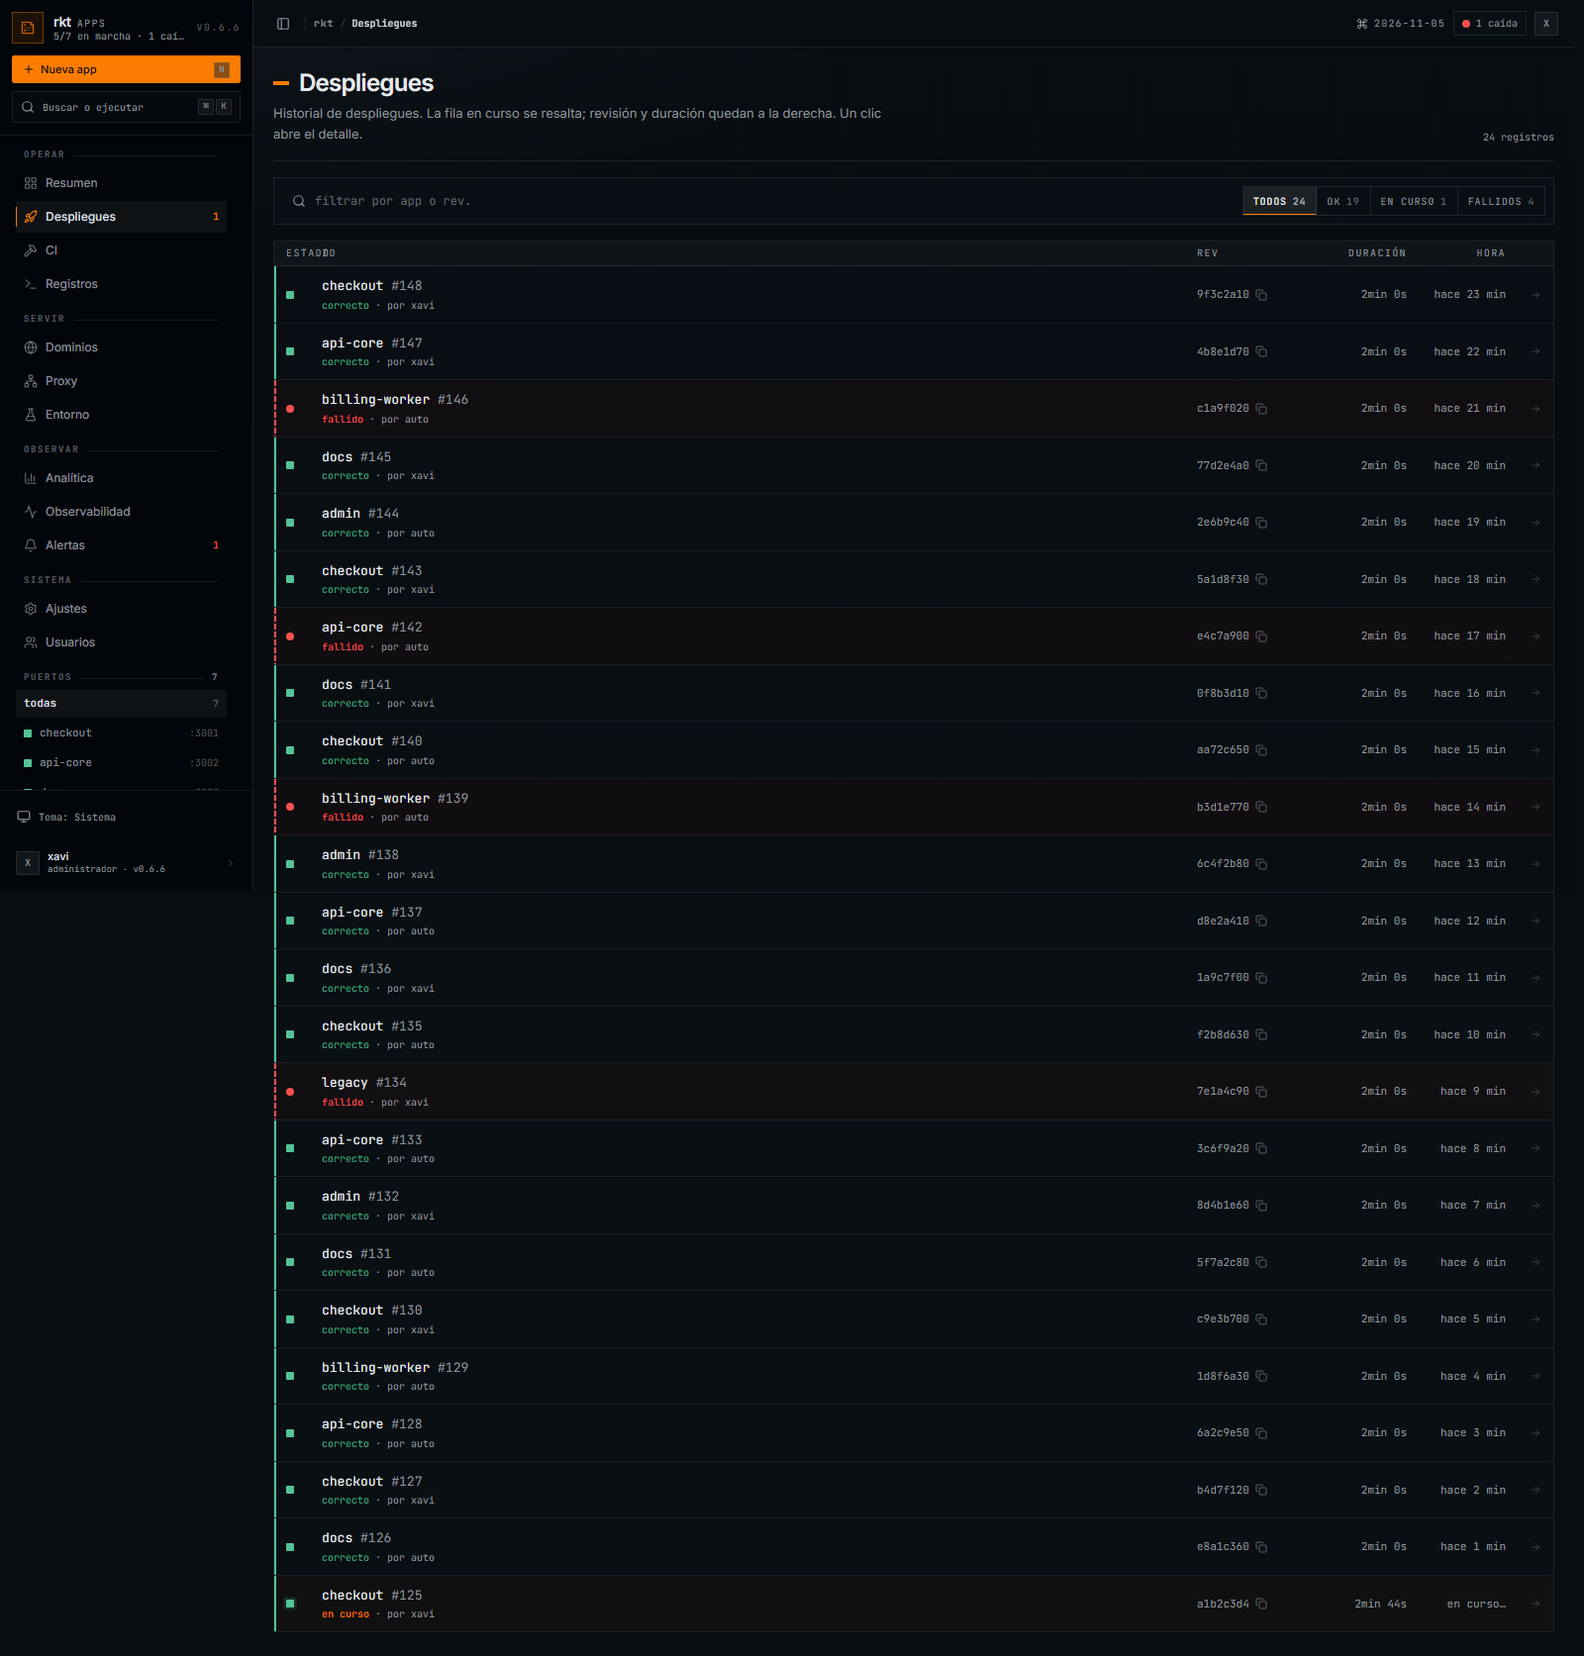
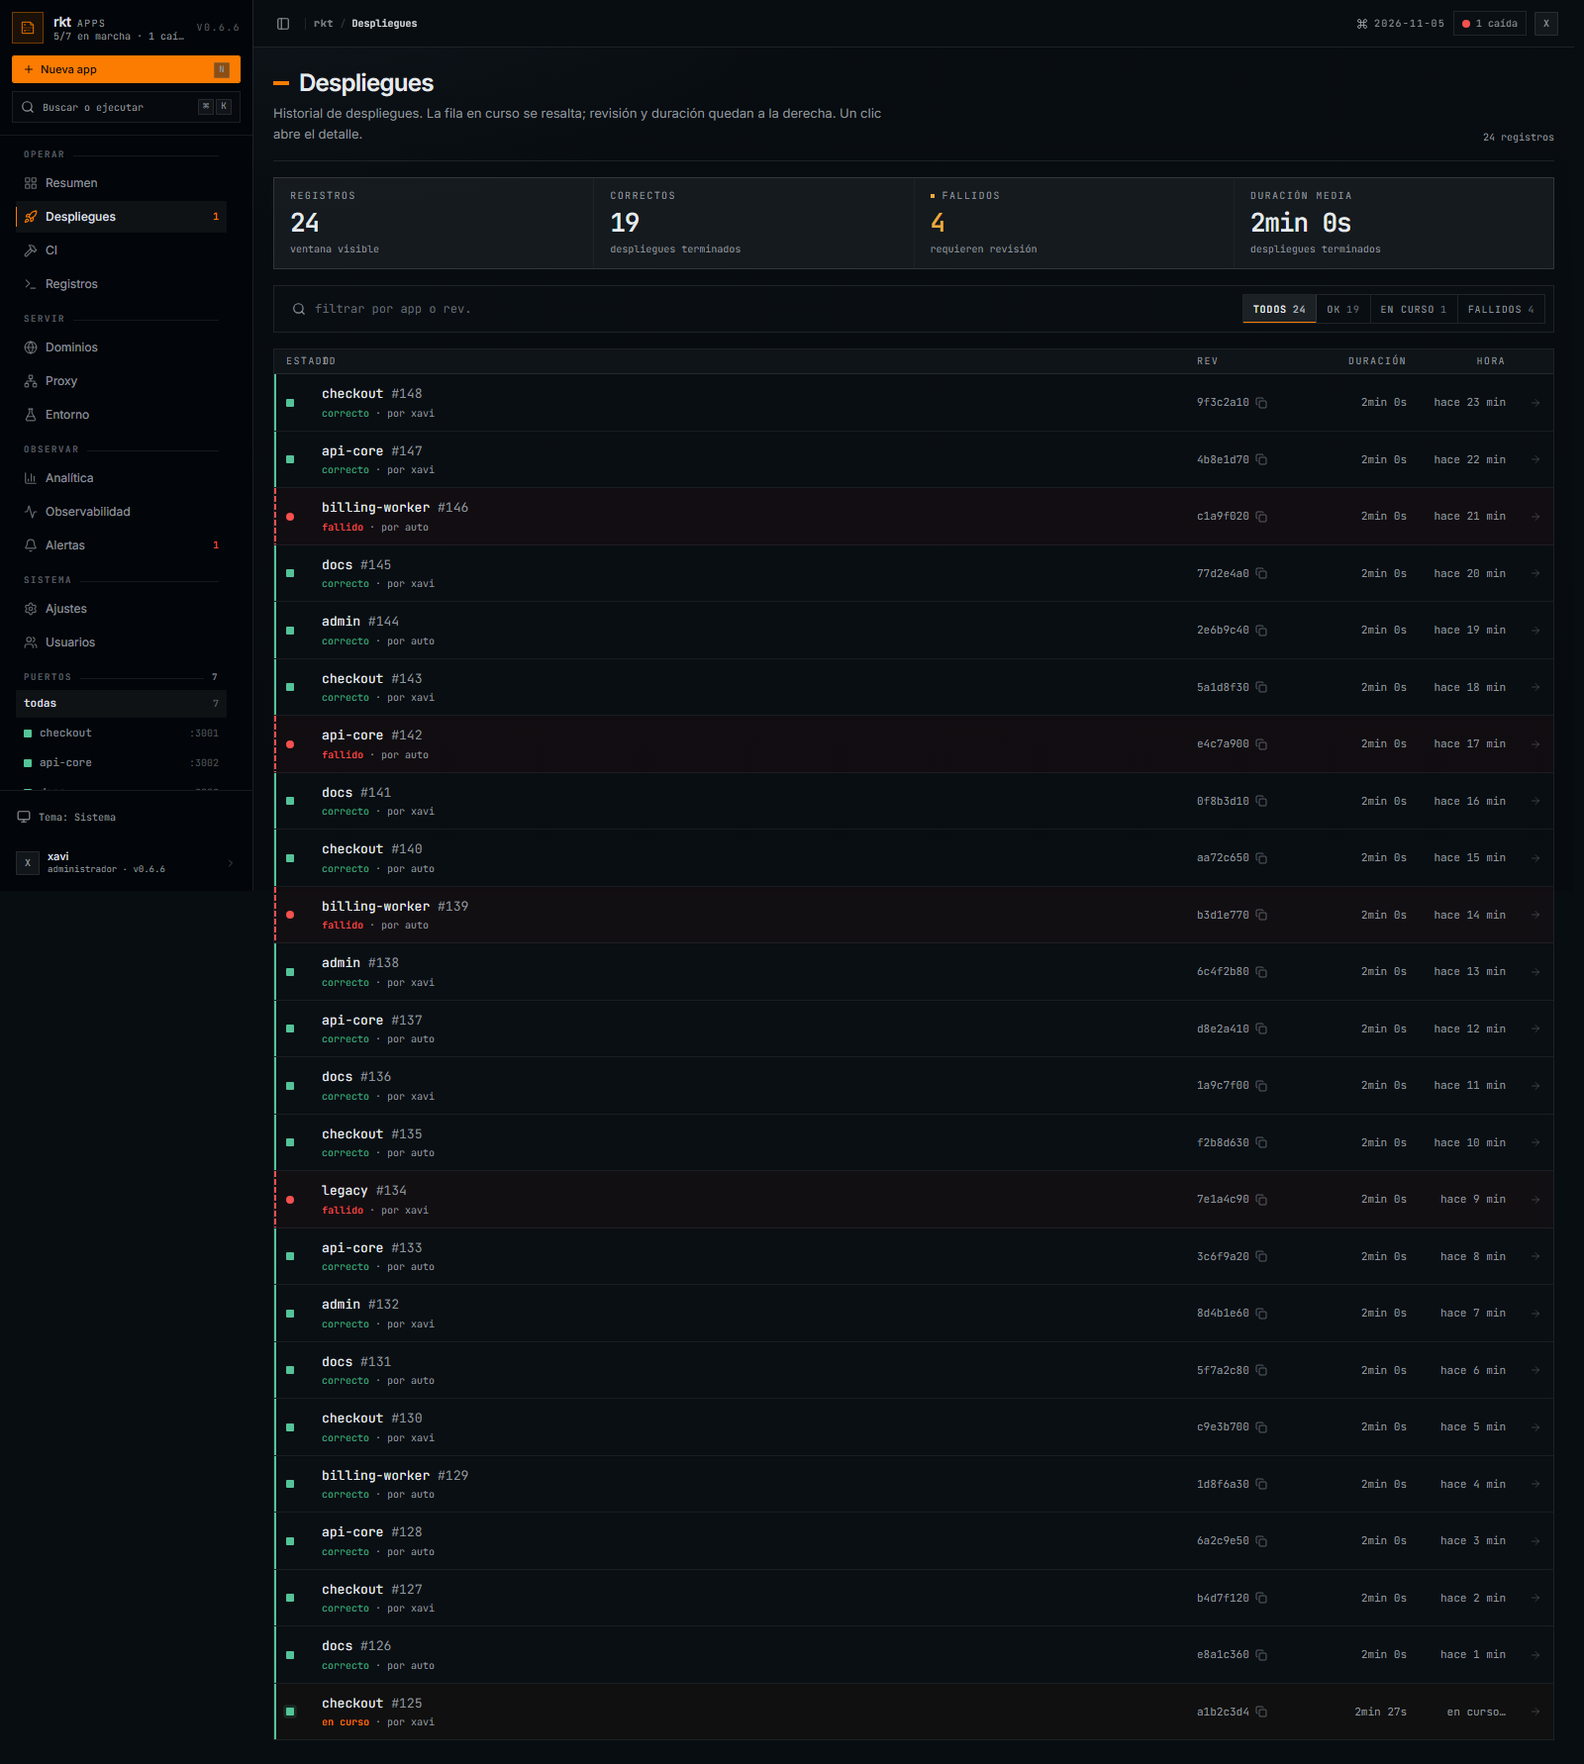
feat(deploy): diff entre revisiones y resumen del historial
Expone los archivos cambiados entre la revision anterior y la actual mediante git diff --name-status, validando ambas revisiones. El detalle del despliegue muestra la lista de cambios y el historial resume registros, correctos, fallidos y duracion media.

diff --git a/web/src/features/deployments/DeployDrawer.tsx b/web/src/features/deployments/DeployDrawer.tsx
@@ -1,5 +1,5 @@
 import { Dialog as DialogPrimitive } from "@base-ui/react/dialog";
-import { useEffect, useMemo } from "react";
+import { useEffect, useMemo, useState } from "react";
 import { useNavigate } from "react-router";
 import { rel, dur } from "../../shared/lib/time";
 import { Dot } from "../../shared/components/ui";
@@ -7,7 +7,7 @@ import { deployStateLabel } from "../../shared/lib/labels";
 import { CopyButton } from "../../shared/components/feedback";
 import { Button } from "@/components/ui/button";
 import { streamLog, bust } from "../../shared/lib/http";
-import { getDeployment } from "./api";
+import { diffDeployment, getDeployment, type DiffFile } from "./api";
 import { Timeline } from "./Timeline";
 import { useUI } from "../../app/ui";
 import { useFleet } from "../overview/hooks";
@@ -71,6 +71,15 @@ function Steps({ log }: { log: string }) {
   );
 }
 
+const CHANGE_LABEL: Record<string, string> = {
+  A: "deployments.change.added",
+  M: "deployments.change.modified",
+  D: "deployments.change.deleted",
+  R: "deployments.change.renamed",
+  C: "deployments.change.copied",
+  T: "deployments.change.type",
+};
+
 function Cell({ label, children }: { label: string; children: React.ReactNode }) {
   return (
     <div className="min-w-0 bg-card/45 px-3 py-2">
@@ -91,6 +100,8 @@ export function DeployDrawer() {
   const navigate = useNavigate();
   const { deps } = useFleet();
   const dep = sel ? (deps.find((d) => d.id === sel.id) ?? sel) : null;
+  const [diff, setDiff] = useState<DiffFile[] | null>(null);
+  const [diffErr, setDiffErr] = useState("");
 
   // Deploy en curso: SSE del build log. Al terminar, refresca las apps.
   useEffect(() => {
@@ -113,6 +124,19 @@ export function DeployDrawer() {
       },
     );
   }, [dep?.id, dep?.status]);
+
+  useEffect(() => {
+    setDiff(null);
+    setDiffErr("");
+    if (!dep || !dep.prev_rev || !dep.rev || dep.status === "running") return;
+    let alive = true;
+    diffDeployment(dep.app, dep.prev_rev, dep.rev)
+      .then((files) => { if (alive) setDiff(files); })
+      .catch((e) => { if (alive) setDiffErr(e instanceof Error ? e.message : t("common.error")); });
+    return () => { alive = false; };
+    // eslint-disable-next-line react-hooks/exhaustive-deps
+  }, [dep?.id, dep?.prev_rev, dep?.rev, dep?.status]);
+
   return (
     <Root
       open={dep !== null}
@@ -202,6 +226,46 @@ export function DeployDrawer() {
                   )}
                 </section>
               </div>
+
+              <section className="border-b border-border px-4 py-4">
+                <div className="flex items-center gap-2">
+                  <p className="micro">{t("deployments.changes")}</p>
+                  <span className="flex-1" />
+                  <span className="tnum font-mono text-[9px] text-muted-foreground">
+                    {diff ? tn("deployments.changesCount", diff.length) : ""}
+                  </span>
+                </div>
+                <div className="mt-2 border border-border">
+                  {!dep.prev_rev ? (
+                    <p className="px-3 py-2 font-mono text-[10px] text-muted-foreground">
+                      {t("deployments.noPrevRev")}
+                    </p>
+                  ) : diffErr ? (
+                    <p className="px-3 py-2 font-mono text-[10px] text-warn">{diffErr}</p>
+                  ) : diff === null ? (
+                    <p className="px-3 py-2 font-mono text-[10px] text-muted-foreground">{t("common.loading")}</p>
+                  ) : diff.length === 0 ? (
+                    <p className="px-3 py-2 font-mono text-[10px] text-muted-foreground">{t("deployments.noChanges")}</p>
+                  ) : (
+                    diff.map((f, i) => {
+                      const kind = CHANGE_LABEL[f.status[0] ?? ""] ?? "deployments.change.modified";
+                      return (
+                        <div
+                          key={`${f.path}-${i}`}
+                          className="grid grid-cols-[5.5rem_minmax(0,1fr)] items-baseline gap-2 border-b border-border/60 px-3 py-1.5 last:border-0"
+                        >
+                          <span className="font-mono text-[9px] tracking-[0.06em] text-muted-foreground uppercase">
+                            {t(kind)}
+                          </span>
+                          <span className="min-w-0 truncate font-mono text-[10px]">
+                            {f.from ? `${f.from} → ${f.path}` : f.path}
+                          </span>
+                        </div>
+                      );
+                    })
+                  )}
+                </div>
+              </section>
 
               <section>
                 <header className="flex items-center gap-2 border-b border-border bg-secondary/20 px-4 py-2">

diff --git a/web/src/features/deployments/Deployments.tsx b/web/src/features/deployments/Deployments.tsx
@@ -10,7 +10,7 @@ import { cn } from "@/lib/utils";
 import { deployStateLabel } from "../../shared/lib/labels";
 import { useUI } from "../../app/ui";
 import { useFleet } from "../overview/hooks";
-import { PageHeader, Segmented } from "../../shared/components/patterns";
+import { PageHeader, Segmented, Stat, StatGrid } from "../../shared/components/patterns";
 import { useI18n } from "../../shared/i18n";
 
 export type DepStatus = "all" | "ok" | "running" | "failed";
@@ -41,6 +41,15 @@ export function Deployments({ bare = false, status, max }: { bare?: boolean; sta
     running: base.filter((d) => d.status === "running").length,
     failed: base.filter((d) => d.status === "failed").length,
   };
+  const finished = base.filter((d) => d.status === "ok" || d.status === "failed");
+  const avgMs = finished.length
+    ? finished.reduce((sum, d) => {
+        const a = new Date(d.started_at).getTime();
+        const b = new Date(d.finished_at).getTime();
+        return sum + (Number.isNaN(a) || Number.isNaN(b) ? 0 : Math.max(0, b - a));
+      }, 0) / finished.length
+    : 0;
+  const avg = avgMs >= 60000 ? `${Math.floor(avgMs / 60000)}min ${Math.round((avgMs % 60000) / 1000)}s` : `${Math.round(avgMs / 1000)}s`;
 
   return (
     <div className="space-y-4">
@@ -54,6 +63,19 @@ export function Deployments({ bare = false, status, max }: { bare?: boolean; sta
               : t("deployments.countFiltered", { shown: vis.length, total: base.length })}
           </span>}
         />
+      )}
+      {!bare && (
+        <StatGrid>
+          <Stat value={String(counts.all)} label={t("deployments.summary.total")} sub={t("deployments.summary.totalSub")} />
+          <Stat value={String(counts.ok)} label={t("deployments.summary.ok")} sub={t("deployments.summary.okSub")} />
+          <Stat
+            value={String(counts.failed)}
+            label={t("deployments.summary.failed")}
+            sub={t("deployments.summary.failedSub")}
+            tone={counts.failed > 0 ? "warn" : undefined}
+          />
+          <Stat value={finished.length ? avg : "—"} label={t("deployments.summary.avg")} sub={t("deployments.summary.avgSub")} />
+        </StatGrid>
       )}
       {!bare && (
         <div className="flex flex-wrap items-center gap-2 border border-border bg-card/35 p-2">

diff --git a/web/src/shared/i18n/messages/es/deployments.ts b/web/src/shared/i18n/messages/es/deployments.ts
@@ -6,6 +6,15 @@ export const deployments = {
   "deployments.count.other": "{n} registros",
   "deployments.countFiltered": "{shown} de {total}",
 
+  "deployments.summary.total": "registros",
+  "deployments.summary.totalSub": "ventana visible",
+  "deployments.summary.ok": "correctos",
+  "deployments.summary.okSub": "despliegues terminados",
+  "deployments.summary.failed": "fallidos",
+  "deployments.summary.failedSub": "requieren revisión",
+  "deployments.summary.avg": "duración media",
+  "deployments.summary.avgSub": "despliegues terminados",
+
   "deployments.filter.placeholder": "filtrar por app o rev.",
   "deployments.filter.aria": "filtrar despliegues",
   "deployments.filter.statusLabel": "filtrar por estado",
@@ -42,6 +51,17 @@ export const deployments = {
   "deployments.action.rollback": "revertir",
   "deployments.retryId": "reintentar #{id}",
   "deployments.lifecycle": "ciclo de vida",
+  "deployments.changes": "Cambios",
+  "deployments.changesCount.one": "{n} archivo",
+  "deployments.changesCount.other": "{n} archivos",
+  "deployments.noPrevRev": "sin revisión anterior registrada",
+  "deployments.noChanges": "sin cambios entre revisiones",
+  "deployments.change.added": "añadido",
+  "deployments.change.modified": "modificado",
+  "deployments.change.deleted": "borrado",
+  "deployments.change.renamed": "renombrado",
+  "deployments.change.copied": "copiado",
+  "deployments.change.type": "tipo",
   "deployments.buildSteps": "pasos de compilación",
   "deployments.noSteps": "sin pasos registrados",
   "deployments.buildLog": "registro de compilación",
@@ -61,7 +81,7 @@ export const deployments = {
   "deployments.timeline.building": "compilando",
   "deployments.timeline.build": "compilación",
   "deployments.timeline.end": "fin",
-  "deployments.timeline.live": "en curso",
+  "deployments.timeline.published": "publicado",
   "deployments.timeline.failed": "fallido",
   "deployments.timeline.pending": "pendiente",
   "deployments.timeline.runningSub": "en curso · {dur}",

diff --git a/web/src/features/deployments/api.ts b/web/src/features/deployments/api.ts
@@ -10,6 +10,19 @@ export function getDeployment(id: number): Promise<Deployment> {
   return api<Deployment>(`/api/v1/deployments/${id}`);
 }
 
+export interface DiffFile {
+  status: string;
+  from?: string;
+  path: string;
+}
+
+export async function diffDeployment(app: string, from: string, to: string): Promise<DiffFile[]> {
+  const res = await api<{ files?: DiffFile[] }>(
+    `/api/v1/apps/${encodeURIComponent(app)}/diff?from=${encodeURIComponent(from)}&to=${encodeURIComponent(to)}`,
+  );
+  return res.files ?? [];
+}
+
 export async function retryDeployment(id: number): Promise<string> {
   return (await api<{ rev: string }>(`/api/v1/deployments/${id}/retry`, { method: "POST" })).rev;
 }

diff --git a/web/src/features/deployments/Timeline.tsx b/web/src/features/deployments/Timeline.tsx
@@ -21,7 +21,7 @@ export function Timeline({ dep }: { dep: Deployment }) {
     dep.status === "running"
       ? { label: t("deployments.timeline.end"), sub: t("deployments.timeline.pending"), state: "idle" }
       : {
-          label: dep.status === "ok" ? t("deployments.timeline.live") : t("deployments.timeline.failed"),
+          label: dep.status === "ok" ? t("deployments.timeline.published") : t("deployments.timeline.failed"),
           sub: rel(dep.finished_at),
           state: dep.status === "ok" ? "ok" : "bad",
         },

diff --git a/web/src/shared/lib/types.ts b/web/src/shared/lib/types.ts
@@ -27,6 +27,7 @@ export interface Deployment {
   id: number;
   app: string;
   rev: string;
+  prev_rev: string;
   status: string;
   started_at: string;
   finished_at: string;

diff --git a/internal/store/store.go b/internal/store/store.go
@@ -219,6 +219,7 @@ type Deployment struct {
 	ID          int64  `json:"id"`
 	App         string `json:"app"`
 	Rev         string `json:"rev"`
+	PrevRev     string `json:"prev_rev"`
 	Status      string `json:"status"`
 	StartedAt   string `json:"started_at"`
 	FinishedAt  string `json:"finished_at"`
@@ -254,14 +255,14 @@ func (d *DB) FinishDeployment(id int64, status, prevRev, rev string) error {
 
 // ListDeployments últimas N (app "" = todas).
 func (d *DB) ListDeployments(app string, n int) ([]Deployment, error) {
-	q := `SELECT id, app, rev, status, started_at, finished_at, triggered_by, env_snapshot FROM deployments ORDER BY id DESC LIMIT ?`
+	q := `SELECT id, app, rev, prev_rev, status, started_at, finished_at, triggered_by, env_snapshot FROM deployments ORDER BY id DESC LIMIT ?`
 	var rows *sql.Rows
 	var err error
 	if app == "" {
 		rows, err = d.sql.Query(q, n)
 	} else {
 		rows, err = d.sql.Query(
-			`SELECT id, app, rev, status, started_at, finished_at, triggered_by, env_snapshot FROM deployments WHERE app=? ORDER BY id DESC LIMIT ?`,
+			`SELECT id, app, rev, prev_rev, status, started_at, finished_at, triggered_by, env_snapshot FROM deployments WHERE app=? ORDER BY id DESC LIMIT ?`,
 			app, n)
 	}
 	if err != nil {
@@ -271,7 +272,7 @@ func (d *DB) ListDeployments(app string, n int) ([]Deployment, error) {
 	out := []Deployment{}
 	for rows.Next() {
 		var dep Deployment
-		if err := rows.Scan(&dep.ID, &dep.App, &dep.Rev, &dep.Status, &dep.StartedAt, &dep.FinishedAt, &dep.TriggeredBy, &dep.EnvSnapshot); err != nil {
+		if err := rows.Scan(&dep.ID, &dep.App, &dep.Rev, &dep.PrevRev, &dep.Status, &dep.StartedAt, &dep.FinishedAt, &dep.TriggeredBy, &dep.EnvSnapshot); err != nil {
 			return nil, err
 		}
 		out = append(out, dep)

diff --git a/internal/deploy/deploy.go b/internal/deploy/deploy.go
@@ -327,6 +327,51 @@ func dirExists(p string) bool {
 	return err == nil && st.IsDir()
 }
 
+// FileChange cambio entre dos revisiones del repo.
+type FileChange struct {
+	Status string `json:"status"`
+	From   string `json:"from,omitempty"`
+	Path   string `json:"path"`
+}
+
+// DiffFiles lista archivos cambiados entre dos revisiones del repo de la app.
+// No usa shell; from/to se validan para no interpretarse como flags.
+func DiffFiles(dir, from, to string) ([]FileChange, error) {
+	if !dirExists(dir) {
+		return nil, fmt.Errorf("directorio inexistente: %s", dir)
+	}
+	for _, rev := range []string{from, to} {
+		if rev == "" || strings.HasPrefix(rev, "-") || strings.ContainsAny(rev, " \t\r\n") {
+			return nil, fmt.Errorf("revisión inválida: %q", rev)
+		}
+	}
+	out, err := exec.Command("git", "-C", dir, "diff", "--name-status", "--find-renames", from, to, "--").Output()
+	if err != nil {
+		return nil, fmt.Errorf("git diff: %w", err)
+	}
+	changes := []FileChange{}
+	for _, line := range strings.Split(strings.TrimSpace(string(out)), "\n") {
+		if line == "" {
+			continue
+		}
+		f := strings.Split(line, "\t")
+		if len(f) < 2 {
+			continue
+		}
+		c := FileChange{Status: f[0]}
+		if len(f) >= 3 {
+			c.From, c.Path = f[1], f[2]
+		} else {
+			c.Path = f[1]
+		}
+		changes = append(changes, c)
+		if len(changes) >= 500 {
+			break
+		}
+	}
+	return changes, nil
+}
+
 // OneLine primera línea, máx 300, para errores de deploy/servicio.
 // Canónica; MCP la reutiliza (antes duplicada con límite 200).
 func OneLine(b []byte) string {

diff --git a/internal/api/apps.go b/internal/api/apps.go
@@ -10,6 +10,7 @@ import (
 	"rkt-proxy/internal/appview"
 	"rkt-proxy/internal/cfgfile"
 	"rkt-proxy/internal/config"
+	"rkt-proxy/internal/deploy"
 	"rkt-proxy/internal/github"
 	"rkt-proxy/internal/health"
 	"rkt-proxy/internal/store"
@@ -70,11 +71,26 @@ func (d *Deps) handleAppDetail(w http.ResponseWriter, r *http.Request) {
 		writeErr(w, http.StatusNotFound, "app inexistente")
 		return
 	}
-	if a.External() && (action == "deploy" || action == "restart" || action == "rollback" || action == "build" || action == "retry") {
+	if a.External() && (action == "deploy" || action == "restart" || action == "rollback" || action == "build" || action == "retry" || action == "diff") {
 		writeErr(w, http.StatusConflict, "app externa: solo proxy; corre el dev server en "+a.Dir)
 		return
 	}
 	switch {
+	case action == "diff" && r.Method == http.MethodGet:
+		if !requireOperator(w, r) {
+			return
+		}
+		from, to := r.URL.Query().Get("from"), r.URL.Query().Get("to")
+		if from == "" || to == "" {
+			writeErr(w, http.StatusBadRequest, "from y to requeridos")
+			return
+		}
+		files, err := deploy.DiffFiles(a.Dir, from, to)
+		if err != nil {
+			writeErr(w, http.StatusUnprocessableEntity, err.Error())
+			return
+		}
+		writeJSON(w, map[string]any{"from": from, "to": to, "files": files})
 	case action == "" && r.Method == http.MethodGet:
 		writeJSON(w, appview.App(d.Live.Get(), *a))
 	case action == "usage" && r.Method == http.MethodGet:

diff --git a/internal/deploy/deploy_test.go b/internal/deploy/deploy_test.go
@@ -65,6 +65,41 @@ func (f *fakeCtl) Snapshot() []supervisor.Status {
 	return []supervisor.Status{{Name: "web", Running: f.healthy, Failed: !f.healthy}}
 }
 
+func TestDiffFilesEntreRevisiones(t *testing.T) {
+	gitOK(t)
+	dir := t.TempDir()
+	run := func(args ...string) {
+		cmd := exec.Command("git", args...)
+		cmd.Dir = dir
+		cmd.Env = append(os.Environ(),
+			"GIT_AUTHOR_NAME=t", "GIT_AUTHOR_EMAIL=t@t",
+			"GIT_COMMITTER_NAME=t", "GIT_COMMITTER_EMAIL=t@t",
+			"GIT_CONFIG_NOSYSTEM=1", "HOME="+t.TempDir(),
+		)
+		if out, err := cmd.CombinedOutput(); err != nil {
+			t.Fatalf("git %v: %v: %s", args, err, out)
+		}
+	}
+	run("init", "-b", "main", ".")
+	os.WriteFile(filepath.Join(dir, "a.txt"), []byte("a"), 0o644)
+	run("add", ".")
+	run("commit", "-m", "v1", "--no-gpg-sign")
+	os.WriteFile(filepath.Join(dir, "b.txt"), []byte("b"), 0o644)
+	run("add", ".")
+	run("commit", "-m", "v2", "--no-gpg-sign")
+
+	changes, err := DiffFiles(dir, "HEAD~1", "HEAD")
+	if err != nil {
+		t.Fatal(err)
+	}
+	if len(changes) != 1 || changes[0].Status != "A" || changes[0].Path != "b.txt" {
+		t.Fatalf("cambios = %+v", changes)
+	}
+	if _, err := DiffFiles(dir, "--help", "HEAD"); err == nil {
+		t.Fatal("revisión con flag debe rechazarse")
+	}
+}
+
 func TestIsSHAAceptaRevCorto(t *testing.T) {
 	for _, s := range []string{"3cb6176", "6360d12", "0123456789abcdef0123456789abcdef01234567"} {
 		if !isSHA(s) {
